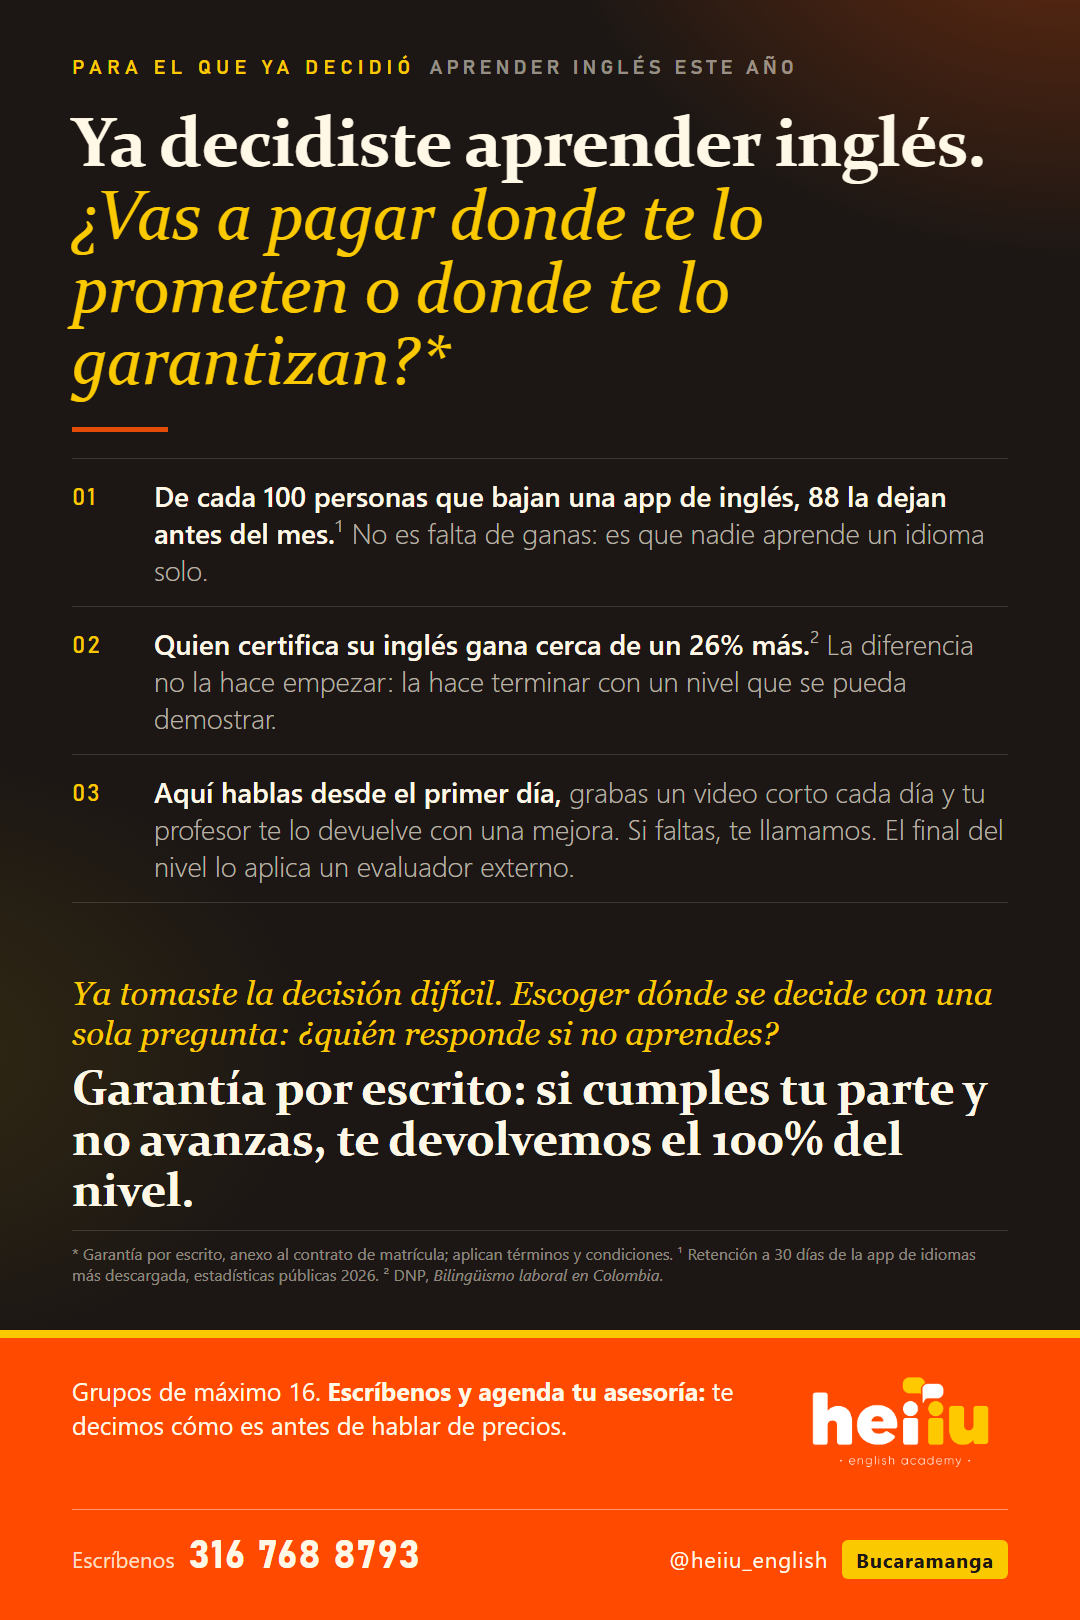
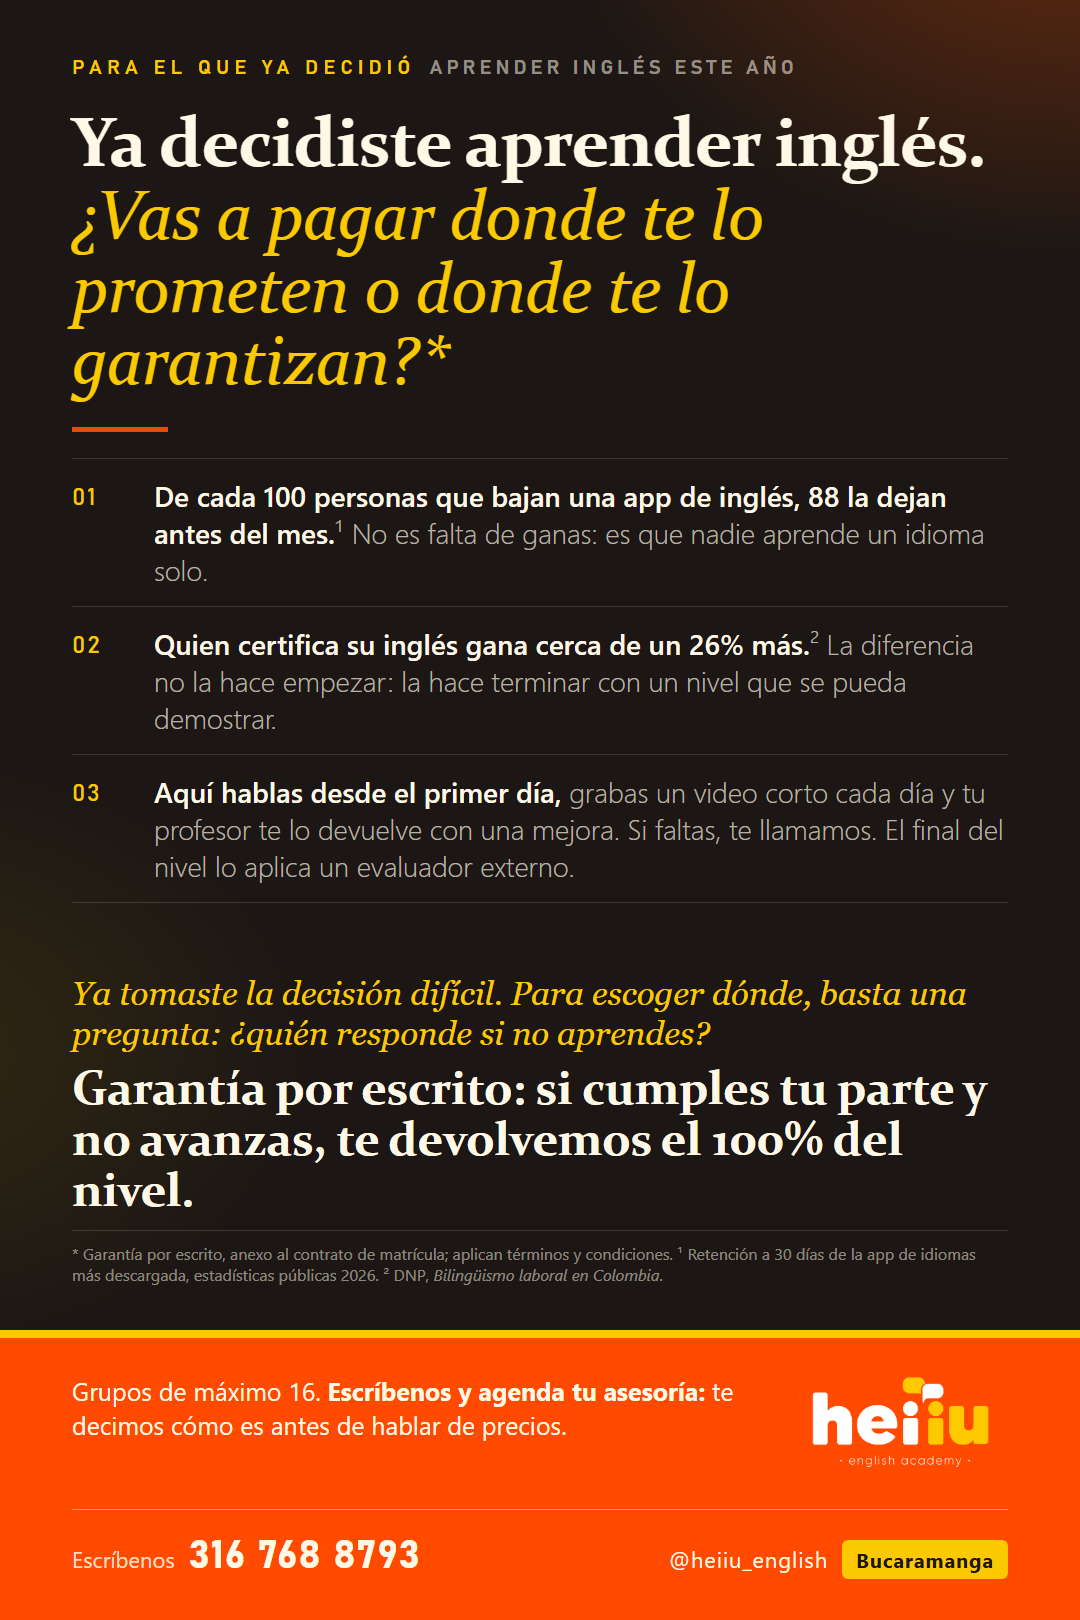
Pieza decidido: 'Para escoger donde, basta una pregunta: quien responde si no aprendes'

Changed region(s): [[0.0611, 0.5864, 0.9167, 0.6481]]

diff --git a/generadores/comercial/gen_piezas_conciencia.py b/generadores/comercial/gen_piezas_conciencia.py
@@ -251,7 +251,7 @@ PIEZAS = {
             ('<b>Quien certifica su inglés gana cerca de un 26% más.</b>² La diferencia no la hace empezar: la hace terminar con un nivel que se pueda demostrar.'),
             ('<b>Aquí hablas desde el primer día,</b> grabas un video corto cada día y tu profesor te lo devuelve con una mejora. Si faltas, te llamamos ese mismo día.'),
             ('<b>Prueba de entrada, prueba de salida y evaluador externo al cierre del nivel.</b> Lo que avanzas no es una sensación: queda por escrito.')],
-        lead='Ya tomaste la decisión difícil. Escoger dónde se decide con una sola pregunta: ¿quién responde si no aprendes?',
+        lead='Ya tomaste la decisión difícil. Para escoger dónde, basta una pregunta: ¿quién responde si no aprendes?',
         big='Garantía por escrito: si cumples tu parte y no avanzas, te devolvemos el 100% del nivel.',
         big2='',
         fn='* Garantía por escrito, anexo al contrato de matrícula; aplican términos y condiciones. ¹ Retención a 30 días de la app de idiomas más descargada, estadísticas públicas 2026. ² DNP, <i>Bilingüismo laboral en Colombia</i>.',
@@ -379,7 +379,7 @@ PIEZAS = {
         st=[('<b>De cada 100 personas que bajan una app de inglés, 88 la dejan antes del mes.</b>¹ No es falta de ganas: es que nadie aprende un idioma solo.'),
             ('<b>Quien certifica su inglés gana cerca de un 26% más.</b>² La diferencia no la hace empezar: la hace terminar con un nivel que se pueda demostrar.'),
             ('<b>Aquí hablas desde el primer día,</b> grabas un video corto cada día y tu profesor te lo devuelve con una mejora. Si faltas, te llamamos. El final del nivel lo aplica un evaluador externo.')],
-        lead='Ya tomaste la decisión difícil. Escoger dónde se decide con una sola pregunta: ¿quién responde si no aprendes?',
+        lead='Ya tomaste la decisión difícil. Para escoger dónde, basta una pregunta: ¿quién responde si no aprendes?',
         big='Garantía por escrito: si cumples tu parte y no avanzas, te devolvemos el 100% del nivel.',
         big2='', fn='* Garantía por escrito, anexo al contrato de matrícula; aplican términos y condiciones. ¹ Retención a 30 días de la app de idiomas más descargada, estadísticas públicas 2026. ² DNP, <i>Bilingüismo laboral en Colombia</i>.',
         band='Grupos de máximo 16. <b>Escríbenos y agenda tu asesoría:</b> te decimos cómo es antes de hablar de precios.',
